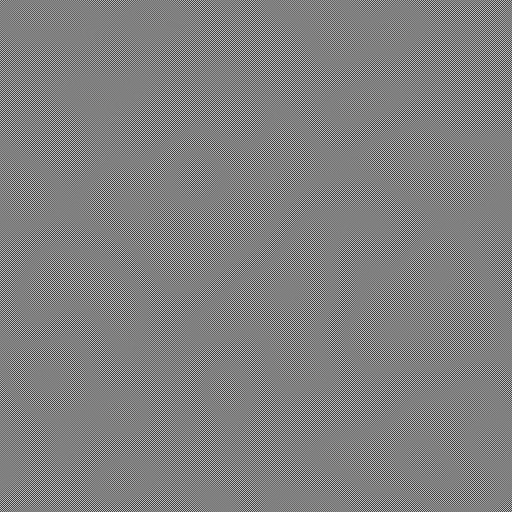
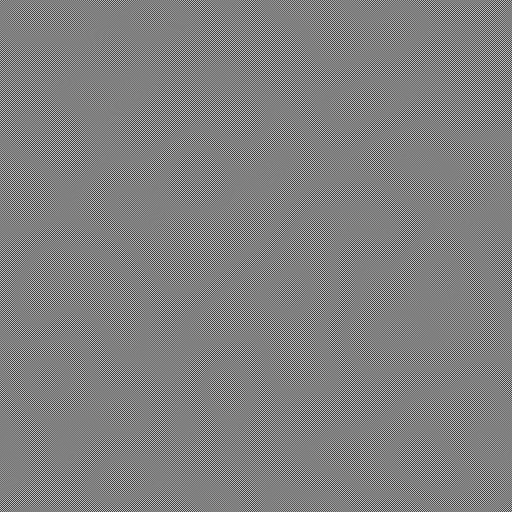
Smoother due to 2 images instead of 3

diff --git a/html5/plasma.html b/html5/plasma.html
@@ -7,6 +7,6 @@
 <body>
 <h1>Moir&eacute; Plasma Effect</h1>
 <p>The background animation on this page is pure CSS; no JavaScript.</p>
-<p>It may be glitchy on some web browsers.</p>
+<p>Runs smoothly on Google Chrome; may be glitchy on other web browsers.</p>
 </body>
 </html>

diff --git a/html5/plasma.css b/html5/plasma.css
@@ -1,7 +1,7 @@
 body {
 	color: white;
-	background: url(moire1.png), url(moire2.png), url(checkerboard.png);
-	animation: sliding 12s linear infinite;
+	background: url(moire1.png), url(moire2.png);
+	animation: sliding 20s linear infinite;
 }
 
 @keyframes sliding {

diff --git a/README.md b/README.md
@@ -1,12 +1,17 @@
 # Moire Plasma Effect
 
-A nice plasma effect using moiré patterns.
-Watch it here:
-https://rawgit.com/helderman/moire-plasma-effect/master/plasma.html
+A nice [plasma effect](https://en.wikipedia.org/wiki/Plasma_effect)
+using [moiré patterns](https://en.wikipedia.org/wiki/Moir%C3%A9_pattern).
+You can watch it here:
+https://rawgit.com/helderman/moire-plasma-effect/master/html5/plasma.html
 
-Using CSS3 to let two moiré patterns slide in different directions (NW and NE).
+Animated using CSS;
+two patterns of slightly wavy parallel diagonal lines
+continuously slide across the screen in orthogonal directions (NW and NE).
 
-All images generated using Script-Fu (TinyScheme version 1.40) in GIMP 2.8.10.
+The patterns are generated by GIMP 2.8.10
+using Script-Fu (TinyScheme version 1.40);
+see the makefile.
 
 Earlier, I created something similar in Scratch:
 https://scratch.mit.edu/projects/69153268/
